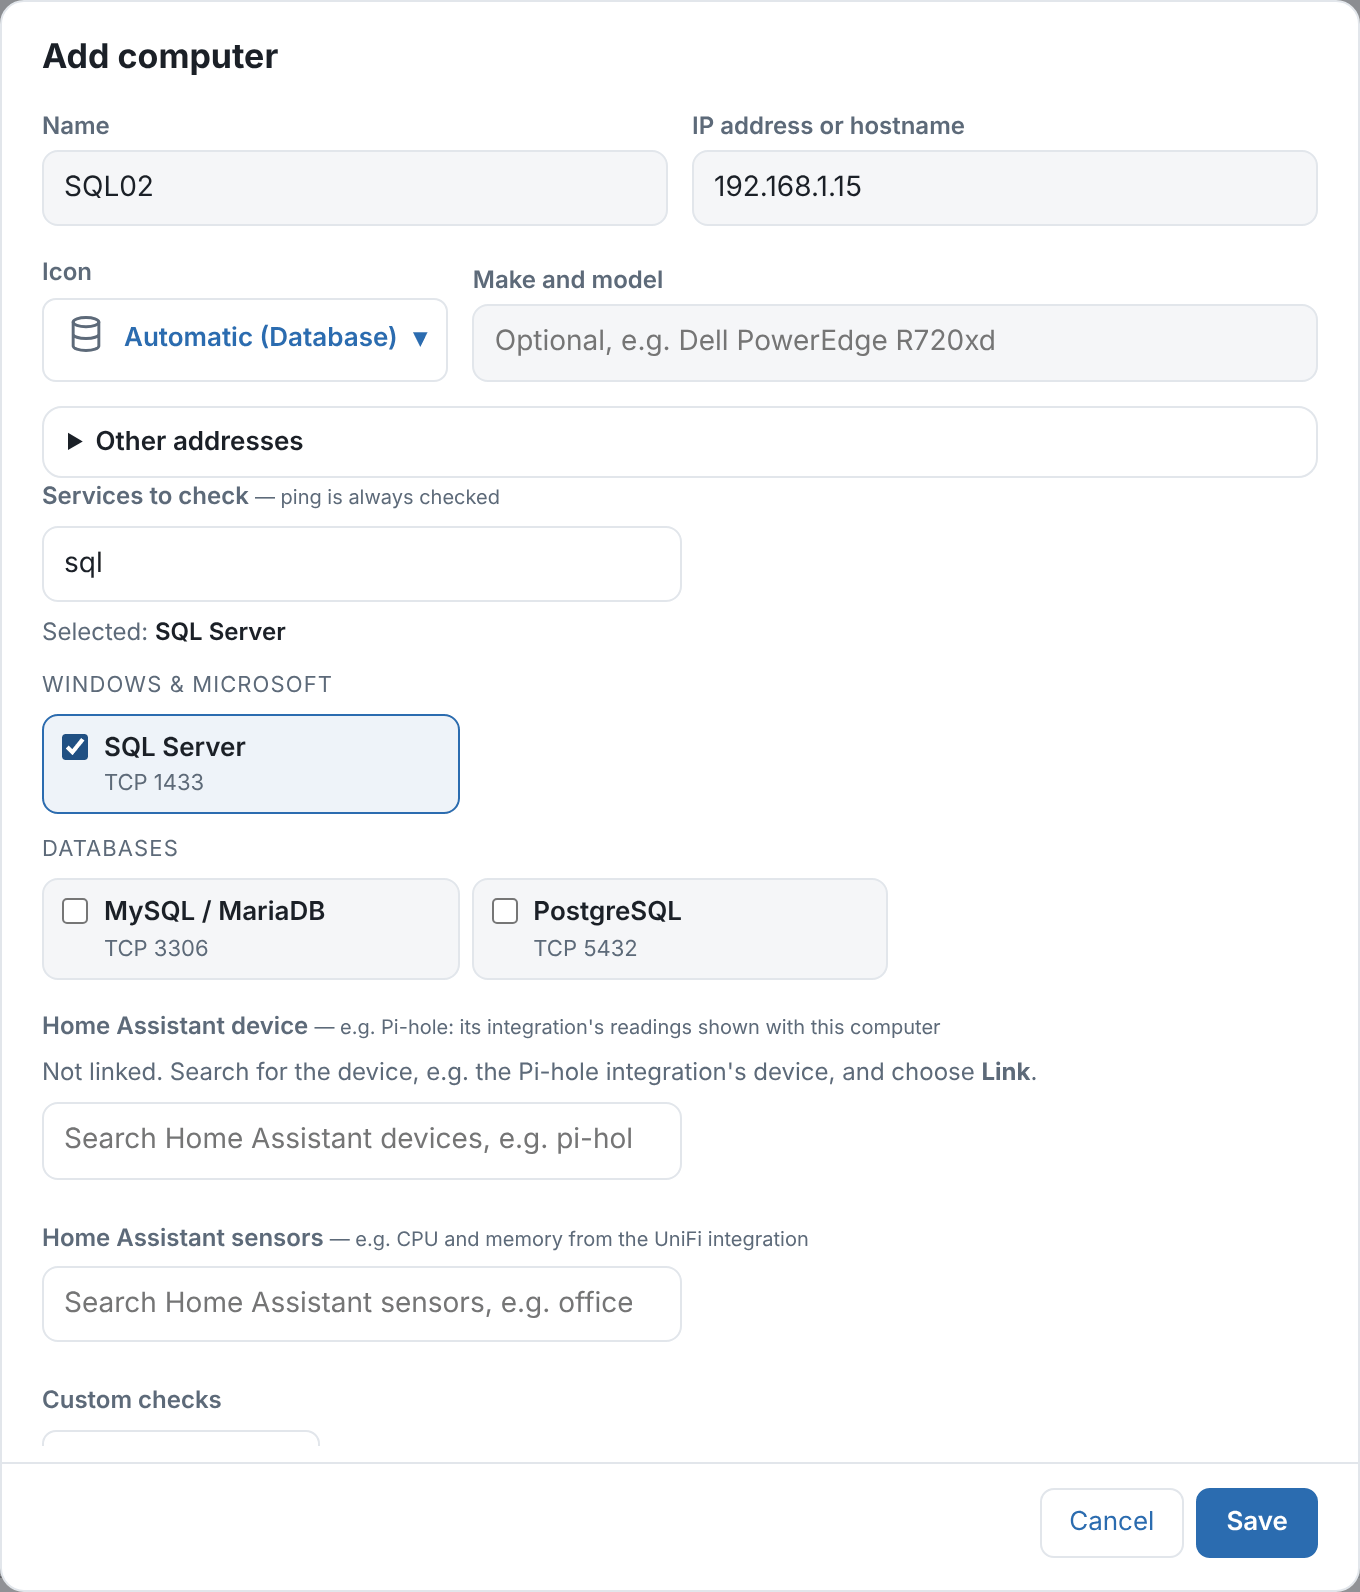
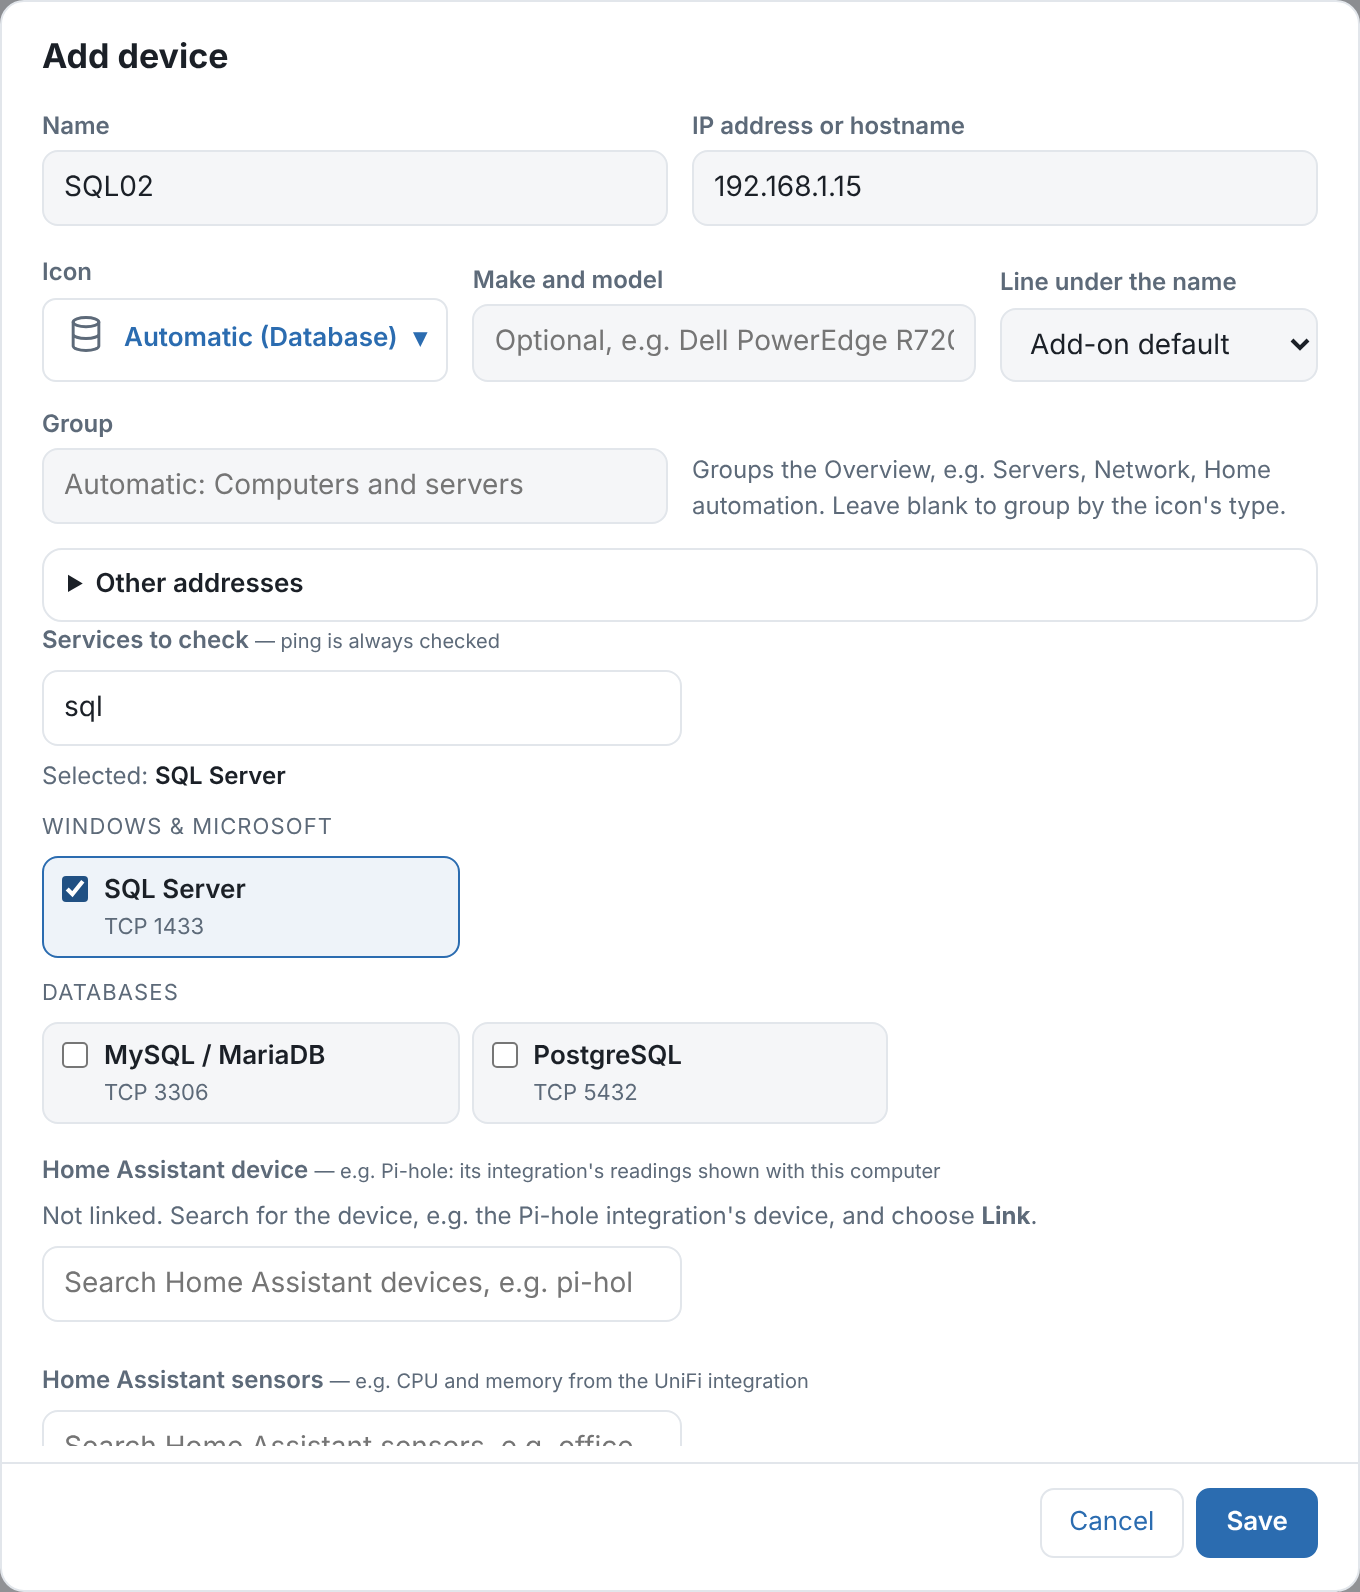
Docs: retake screenshots; add firewall and graphs
Claude-Session: https://claude.ai/code/session_01AdzHfV5MugJpaVjqXdr8XD

diff --git a/rollcall/DOCS.md b/rollcall/DOCS.md
@@ -114,7 +114,7 @@ Along the bottom are **Check now**, **Pause** / **Resume** and **Edit**. Edit op
 
 ### Adding and editing computers
 
-![Adding a computer: name, address and the services to check](https://raw.githubusercontent.com/shoey79/rollcall/main/docs/images/add.png)
+![Adding a device: name, address and the services to check](https://raw.githubusercontent.com/shoey79/rollcall/main/docs/images/add.png)
 
 - **Manage → Add device** opens a form with the name, the IP address or hostname, a checkbox for each service preset (showing the ports it checks), custom checks, SNMP, syslog, a linked Home Assistant device, other addresses and the monitoring schedule.
 - **Edit** on a row, or at the bottom of Details, opens the same form. **Delete** and **Reset uptime** for that computer are in the form too.
@@ -474,6 +474,8 @@ Rollcall reads the device at every check while it answers ping. The **SNMP** tab
   - Sophos UTM isn't supported: it's end of life and doesn't have this table.
 - **Dell iDRAC** (detected automatically): the server's overall health from the iDRAC, under **System**. A non-critical problem is amber; critical or non-recoverable is red. iDRAC7 and later also give storage health and whether the server is powered on (powered off is amber). An iDRAC6 only reports overall health and has no network interfaces to list, so it shows no Ports.
 - **Sophos RED** (Remote Ethernet Device): each RED shows in **Ports** as `reds1`, `reds2` and so on, marked RED. The firewall always reports a RED's interface as up, even with the RED unplugged, so Rollcall goes by what it receives instead. A connected RED sends a keepalive every 15 seconds, so a RED interface that has received nothing since the previous check (at least 45 seconds earlier) shows **Disconnected**. Tick **Alert** on it to go red and be told when that happens, and when it's back. It takes up to two checks to notice (about 10 minutes with the default 5-minute interval).
+
+![A Sophos firewall over SNMP: its IPsec connections, one down and one partly up, and its RED connected](https://raw.githubusercontent.com/shoey79/rollcall/main/docs/images/firewall.png)
 - **Restarts**: amber for an hour after the device restarts. If it was planned or expected, choose **Acknowledge** next to it (SNMP tab or Overview, admins and editors). That clears the warning for that restart only; a later restart still shows. Devices that don't report their own uptime (many switches, APC cards) count a restart of their SNMP service or management card too.
 - **Acknowledging a problem:** any other problem SNMP finds can be acknowledged from **Checks** in the SNMP details, e.g. a server that's meant to be powered off, or a known non-critical fault waiting for a part. It's greyed out and stops counting, so the device can go green, for as long as it stays the same or better (its figures may change, e.g. a UPS's runtime). If it gets worse (amber to red, e.g. non-critical to critical) it shows and alerts again, and the acknowledgement is dropped. If it clears and later comes back, it alerts again too. **Undo** takes an acknowledgement back.
 
@@ -657,6 +659,8 @@ The installer isn't code-signed, so Windows SmartScreen may say "Windows protect
 Acknowledging doesn't send a notification. **N acknowledged**, under the alerts, lists what's acknowledged, who did it and when, each with **Undo**. Event-type acknowledgements drop off that list after 24 hours. Only Home Assistant admins and Rollcall editors can acknowledge.
 
 **Graphs over time.** Rollcall keeps the disk space, network traffic, CPU and memory from each agent report, so you can see how they change, e.g. for capacity planning. **Graph** opens a graph under the item, with ranges of 24 hours, 7 days, 30 days, 90 days and a year. Hover for the figures at that time.
+
+![A server's D: drive over a year: used space against its size, with when it'll be full at that rate](https://raw.githubusercontent.com/shoey79/rollcall/main/docs/images/graphs.png)
 
 - **Disks** (Storage tab): used space against the disk's size. Underneath, how fast it's growing and, if it is, roughly when it'll be full at that rate. The rate is worked out from the daily averages over the last 30 days, or the range shown if that's longer, once there are at least 3 days of history.
 - **Network adapters** (Network tab): received and sent traffic for each connected adapter that carries traffic. That's physical adapters, and virtual ones with an address, such as a Hyper-V host's vEthernet: up to 6 per computer. **Peak** shows the busiest figure in each period instead of the average. Each figure is the average between two agent reports (every few minutes), so a short burst reads lower than it was.
